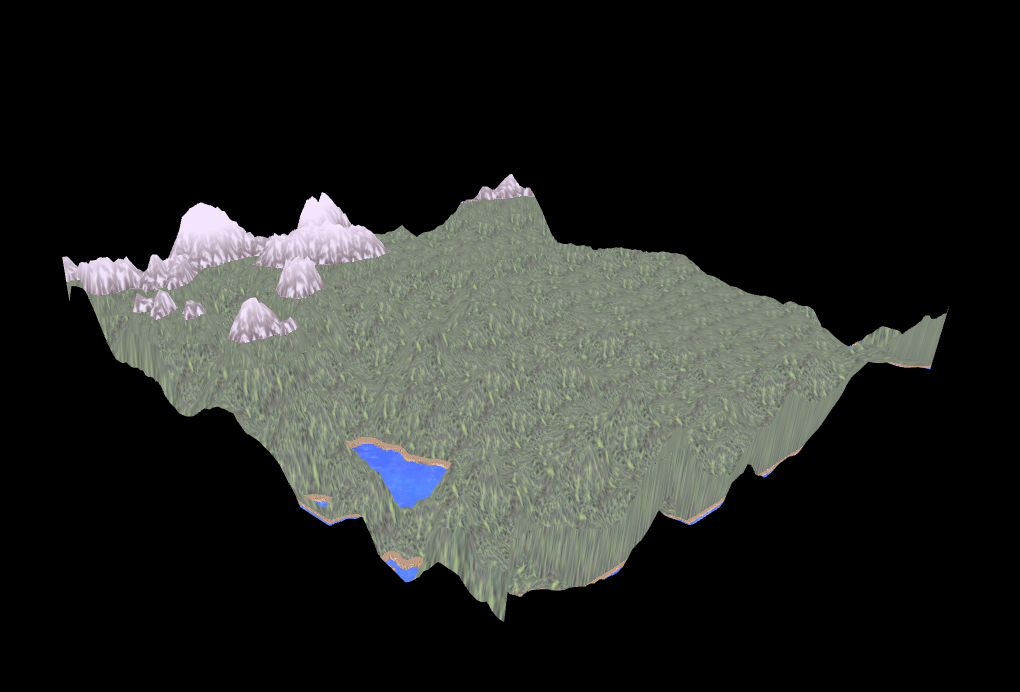
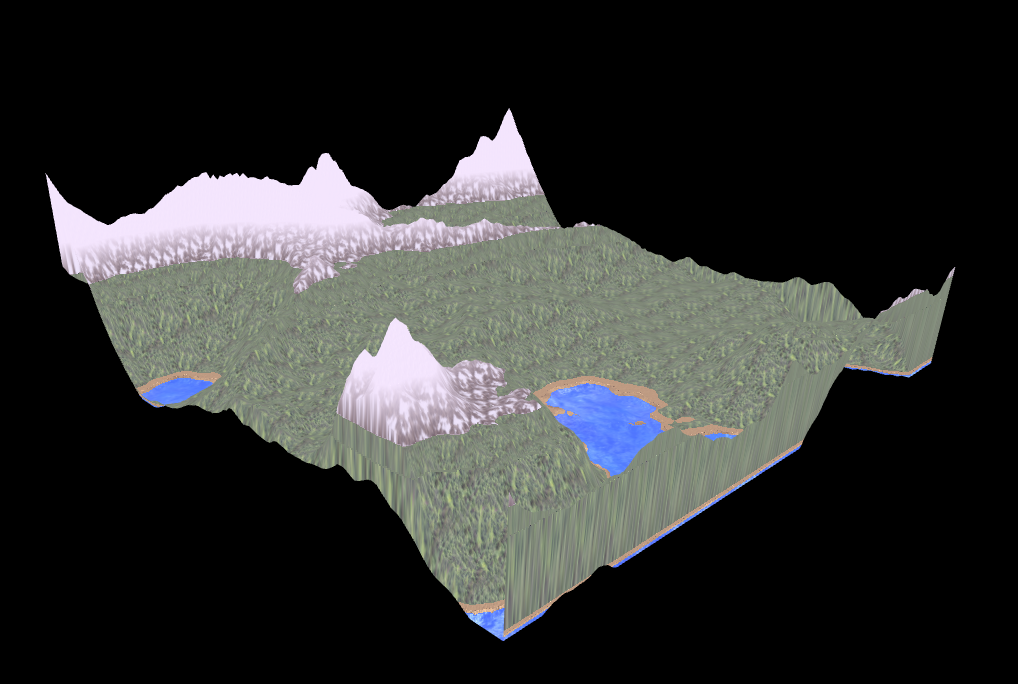
Report part + images

diff --git a/docs/reports/Stage-2-Defferrard-Fechting-Doan.tex b/docs/reports/Stage-2-Defferrard-Fechting-Doan.tex
@@ -29,6 +29,54 @@ This report presents our advancement on the second part of the project : renderi
 \subsection{Improvement on the last stage}
 
 \subsubsection{Parameter tuning for better terrain generation}
+In order to find a better terrain, several combination method has been tested. The first idea was to use an hybrid multi fractal method based on 1 minus the absolute value generated by perlin noise. After tuning parameters, we found a terrain counting few lacs and really sharp mountains as shown Figure \ref{hybridmultifractal_terrain}. Such terrain doesn't contain flat plain, therefor we tested a multi fractal method combining perlin and simplex noise as shown Figure \ref{multifractal_perlin_simplex_terrain}. Oppositely to the hybrid multi-fractal, this method generates flat plains but smooth mountains. 
+\begin{figure}[H]
+	\centering
+	\subfloat[Hybrid multi-fractal based on Perlin noise]{
+		\label{hybridmultifractal_terrain}
+		\includegraphics[height=4cm]{{{img_stage2/hybridmultifractal}}}
+	} \quad
+	\subfloat[Multi-fractal based on perlin and simplex noise]{
+		\label{multifractal_perlin_simplex_terrain}
+		\includegraphics[height=4cm]{{{img_stage2/multifractal_perlin_simplex_noise}}}
+	} \quad
+	\caption{Terrain generated}
+\end{figure}
+As we developed several generating method in project part 1, an idea is to combine them.\\
+Additive combination: sum the product of a coefficient and the height generated by fractal Brownian motion, multi-fractal (simplex noise based), multi-fractal(perlin noise based), simplex noise and perlin noise. The sum of coefficients must be equal to 1 in order to have a balanced and well scaled terrain. As we have 5 coefficients variating from 0.1 to 1.0, we have 102 possible combinations ( for a sum of coefficient equal to 1). We used an external software called "autoit" to generate the 102 combinations. Using autoit, we wrote a loop setting the coefficients, generating the terrain and saving a snapshot of it. Two example of generated terrain using this method are shown Figures \ref{additive_combination1}, \ref{additive_combination1}.
+
+\begin{figure}[H]
+	\centering
+	\subfloat[Example 1]{
+		\label{additive_combination1}
+		\includegraphics[height=4cm]{{{img_stage2/1_terrain_coefs_0.2_0.4_0.1_0.1_0.2}}}
+	} \quad
+	\subfloat[Example 2]{
+		\label{additive_combination2}
+		\includegraphics[height=4cm]{{{img_stage2/1_terrain_coefs_0.4_0.2_0.1_0.1_0.2}}}
+	} \quad
+	\caption{Additive combination}
+\end{figure}
+Random combination: use different noise and multi-fractal methods according to a randomly generated number. Using randomly a different noise per pixel leads to a highly discontinuous  terrain with abrupt change of height as shown Figure \ref{random_combination}
+\begin{figure}[H]
+	\centering
+	\includegraphics[height=4cm]{{{img_stage2/random_combination}}}
+	\caption{Random combination}
+	\label{random_combination}
+\end{figure}
+Spatial combination: use several noise and multi-fractal methods multiplied by a coefficient computed according to the x or y position. This method will smoothly superpose different terrain generation methods creating sharp mountains with lacs and flat plains as shown figures \ref{spatial_combination1} and \ref{spatial_combination2}. 
+\begin{figure}[H]
+	\centering
+	\subfloat[Example 1]{
+		\label{spatial_combination1}
+		\includegraphics[height=4cm]{{{img_stage2/spatial_combination1}}}
+	} \quad
+	\subfloat[Example 2]{
+		\label{spatial_combination2}
+		\includegraphics[height=4cm]{{{img_stage2/spatial_combination2}}}
+	} \quad
+	\caption{Spatial combination}
+\end{figure}
 
 \subsubsection{Fixing normal vector calculation}
 The normal vector calculation implemented in previous stage is actually not correct but only until we try to blend the texture based on the normal vector that we recognize that the results are not correct. While it costs us a lot of time to re-implement normal vector calculation, the experience that we learned when correcting the normal vector is really invaluable for further understanding OpenGL pipeline.
@@ -57,6 +105,7 @@ In this part, our idea is that we can use whatever texture that we want, whateve
 	\caption{The terrain with blended texture.}
 	\label{texture_blending}
 \end{figure}
+
 \subsubsection{Modeling the sky}
 
 \subsubsection{Self shadowing}
@@ -69,7 +118,7 @@ In this part, our idea is that we can use whatever texture that we want, whateve
 \subsubsection{Water depth effect (participating media)}
 
 \subsubsection{Water dynamics}
-
+In order to animate the water texture, we measure time during program execution and send this value through a uniform variable to the fragment shader. This time value will be used to compute an offset applied to the position of the pixel to read in texture.
 \subsubsection{Time of the day}
 
 
